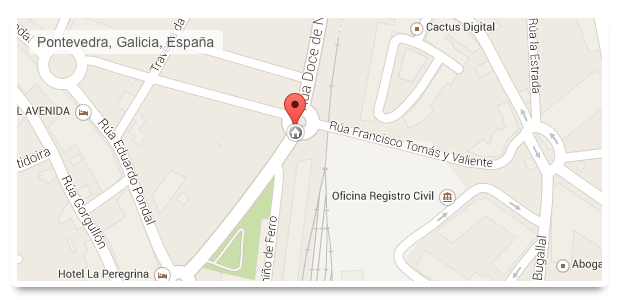
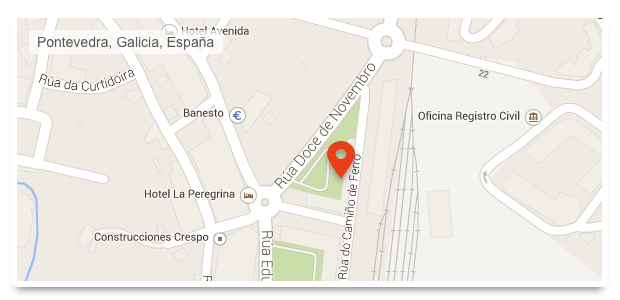
Finish web details.
Add social networks links addresses.
Add some links title translations to the catalog.
Add AppStore apps links.
Change my home map image.

diff --git a/src/mdsr/StudioBundle/Resources/public/css/default.css b/src/mdsr/StudioBundle/Resources/public/css/default.css
@@ -1,4 +1,4 @@
-@import url(http://fonts.googleapis.com/css?family=Raleway:100,400,500);
+@import url(http://fonts.googleapis.com/css?family=Raleway:100,500);
 @import url(http://fonts.googleapis.com/css?family=Roboto:100,400);
 
 
@@ -13,15 +13,6 @@ body {
     background: transparent url('/bundles/mdsrstudio/images/bg_trama.png');
     color: #333;
 }
-
-/*
-body:after {
-    display: none;
-    content: url('bundles/mdsrstudio/images/dincalc_hover_icon.png')
-             url('bundles/mdsrstudio/images/dincalc_plus_hover_icon.png')
-             url('bundles/mdsrstudio/images/smartket_hover_icon.png')
-             url('bundles/mdsrstudio/images/basebook_hover_icon.png');
-}*/
 
 a {
     text-decoration: none;
@@ -38,13 +29,13 @@ em {
  */
 
 div#main-container {
-    max-width: 60em; /* 960px / 16px */
-    margin: 1.25em auto; /* 20px / 16px */
+    max-width: 60em; /* 960/16 */
+    margin: 1.25em auto; /* 20/16 */
 }
 
 
 /*
- *  HEADER.
+ *  HEADER
  */
 
 header {
@@ -80,7 +71,7 @@ header a:hover {
 
 section#content {
     text-align: center;
-    margin-bottom: 3.125em; /* 50px / 16px */
+    margin-bottom: 3.125em; /* 50/16 */
 }
 
 
@@ -98,7 +89,7 @@ footer {
 footer h1 {
     font-family: Raleway, sans-serif;
     font-weight: 100;
-    font-size: 2.25em; /* 36px / 16px */
+    font-size: 2.25em; /* 36/16 */
     color: #f33;
     text-align: center;
     padding-top: 10px;
@@ -106,21 +97,21 @@ footer h1 {
 
 section#links,
 section#funny-stats {
-	width: 91.666666666667%; /* 880px / 960px */
+	width: 91.666666666667%; /* 880/960 */
 	margin: 0 auto;	
 }
 
 section#links article {
-    width: 39.772727272727%; /* 350px / 880px */
+    width: 39.772727272727%; /* 350/880 */
 	min-height: 34.285714285714%; /* 120/350 */
-	margin: 1.25em 0; /* 20px / 16px */
+	margin: 1.25em 0; /* 20/16 */
 }
 
 section#links h1 {
-    font-size: 1.25em; /* 20px / 16px */
+    font-size: 1.25em; /* 20/16 */
     text-align: left;
 	text-transform: uppercase;
-    padding: 0 0 0.75em; /* 15px / 20px */
+    padding: 0 0 0.75em; /* 15/20 */
     color: #ccc;
 }
 
@@ -167,7 +158,7 @@ div#avaliability-bar {
 
 div#bg-avaliability-bar {
     background-color: #ccc;
-    width: 85.714285714286%; /* 300px / 350px */
+    width: 85.714285714286%; /* 300/350 */
     margin: 0 auto;
 }
 
@@ -176,12 +167,12 @@ div#avaliability-bar {
 }
 
 article#follow img {
-    margin: 0 1.428571428571% -2.857142857143% 0; /* 5px y 10px / 350px */
+    margin: 0 1.428571428571% -2.857142857143% 0; /* 5 y 10/350 */
 }
 
 article#resume {
     font-weight: 400;
-    font-size: 0.8125em; /* 13px / 16px */
+    font-size: 0.8125em; /* 13/16 */
     color: #999;
 }
 
@@ -222,10 +213,10 @@ section#funny-stats strong {
 section#language {
     clear: both;
     text-align: center;
-    padding-top: 3.125em; /* 50px / 16px */
+    padding-top: 3.125em; /* 50/16 */
     font-family: Raleway, sans-serif;
-    font-weight: 400;
-    font-size: 0.8125em; /* 13px / 16px */
+    font-weight: 500;
+    font-size: 0.8125em; /* 13/16 */
 	text-transform: uppercase;
 }
 
@@ -267,7 +258,7 @@ section#language p {
 	    background-position: center 22px;
 	    background-repeat: no-repeat;
 		width: 100%;
-		font-size: 2.25em; /* 36/16 */
+		font-size: 2em; /* 32/16 */
 		text-align: center;
 		margin: 10px 0 0;
 	}
@@ -341,6 +332,10 @@ section#language p {
 }
 
 @media screen and (min-width: 480px) {
+	header nav {
+		font-size: 2.25em; /* 36/16 */
+	}
+	
 	section#funny-stats p {
 	    width: 91.666666666667%; /* 440/480 */
 		text-align: left;
@@ -429,7 +424,7 @@ section#language p {
 
 @media screen and (min-width: 768px) {
 	header nav {
-		font-size: 2em; /* 32px / 16px */
+		font-size: 2em; /* 32/16 */
 		background-position: center 22px;
 	}
 	
@@ -438,7 +433,7 @@ section#language p {
 	}	
 
 	header nav p {
-	    font-size: 0.40625em; /* 13px / 32px */
+	    font-size: 0.40625em; /* 13/32 */
 		padding: 0.3125em 0; /* 10/32 */
 	    text-align: center;
 	}
@@ -471,7 +466,7 @@ section#language p {
 	}
 
 	article#follow a {
-		padding-right: 0.35714285714286em; /* 5px / 14px */
+		padding-right: 0.35714285714286em; /* 5/14 */
 	}
     
 	section#funny-stats div {
@@ -507,8 +502,8 @@ section#language p {
 	    background: transparent url('/bundles/mdsrstudio/images/bg_line_700.png');
 	    background-position: center 22px;
 	    background-repeat: no-repeat;
-	    width: 72.916666666667%; /* 700px / 960px */
-	    font-size: 1.5625em; /* 25px / 16px */
+	    width: 72.916666666667%; /* 700/960 */
+	    font-size: 1.5625em; /* 25/16 */
 		text-align: left;
 		margin: 94px 0 0;
 	}
@@ -532,11 +527,11 @@ section#language p {
 	}
     
 	section#funny-stats strong {
-	    font-size: 3.125em; /* 50px / 16px */
-	    margin-bottom: 0.1em; /* 5px / 50px */
+	    font-size: 3.125em; /* 50/16 */
+	    margin-bottom: 0.1em; /* 5/50 */
 	}
     
 	section#funny-stats p {
-		font-size: 0.875em; /* 14px / 16px */
+		font-size: 0.875em; /* 14/16 */
 	}
 }

diff --git a/src/mdsr/StudioBundle/Resources/public/css/work.css b/src/mdsr/StudioBundle/Resources/public/css/work.css
@@ -23,7 +23,7 @@ section#showroom li {
 
 @media screen and (min-width: 320px) {
 	section#content {
-		margin-top: -14.375em; /* 200/16 */
+		margin-top: -11.875em; /* 190/16 */
 	}
 	
 	section#content img {
@@ -40,6 +40,12 @@ section#showroom li {
 		-ms-filter: ”alpha(opacity=100)”;
 		filter: alpha(opacity=100);
 		opacity: 1;
+	}
+}
+
+@media screen and (min-width: 480px) {
+	section#content {
+		margin-top: -13.75em; /* 220/16 */
 	}
 }
 
